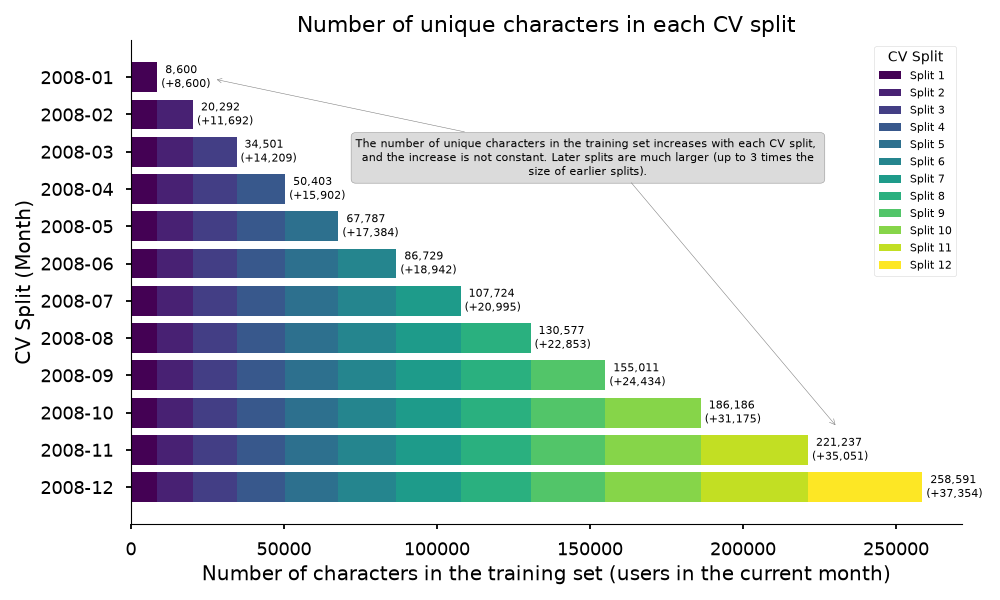
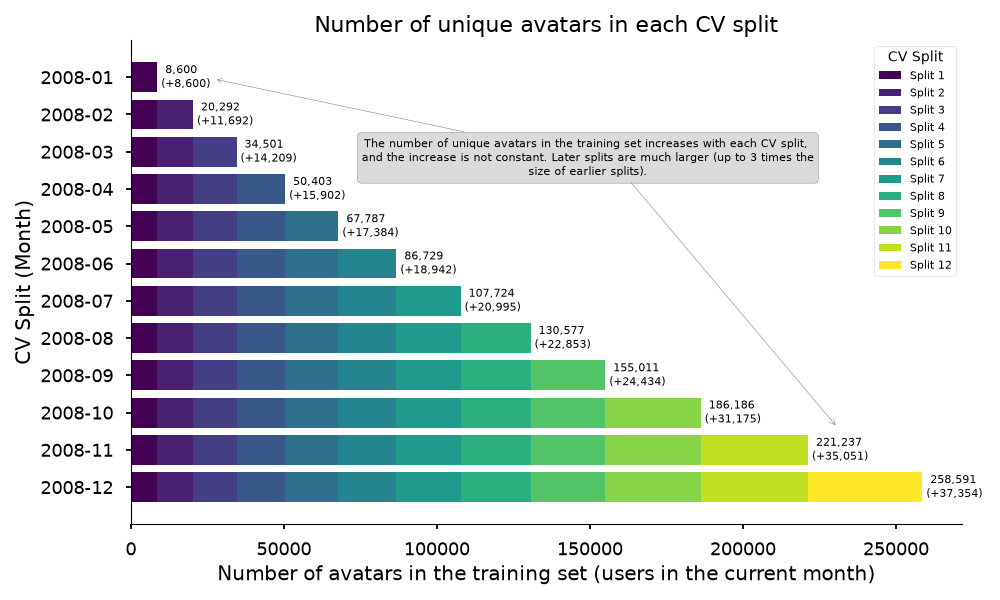
adding figure

Changed region(s): [[0.186, 0.93, 0.899, 0.99], [0.341, 0.21, 0.837, 0.3], [0.279, 0.03, 0.806, 0.06]]

diff --git a/plotting/plot_user_months.py b/plotting/plot_user_months.py
@@ -28,7 +28,7 @@ lefts = [0] + df_grouped["cumsum"].to_list()#[:-1]  # left offset for each month
 n = len(months)
 
 split_labels = [f"Split {i+1}" for i in range(n)]
-cmap = plt.cm.viridis
+cmap = plt.cm.plasma
 colors = [cmap(j / max(n - 1, 1)) for j in range(n)]
 
 fig, ax = plt.subplots(figsize=(10, 6))
@@ -49,9 +49,9 @@ for i, total in enumerate(cumsums):
     ax.text(total, months[i], f"  {total:,}\n ({sign}{diff:,})", va="center", fontsize=8)
 
 ax.invert_yaxis()  # Split 1 at top for natural reading order
-ax.set_xlabel("Number of characters in the training set (users in the current month)")
+ax.set_xlabel("Number of avatars in the training set (users in the current month)")
 ax.set_ylabel("CV Split (Month)")
-ax.set_title("Number of unique characters in each CV split")
+ax.set_title("Number of unique avatars in each CV split")
 handles, labels = ax.get_legend_handles_labels()
 plt.legend(
     handles, labels,
@@ -60,7 +60,7 @@ plt.legend(
 )
 
 desc = """
-The number of unique characters in the training set increases with each CV split, 
+The number of unique avatars in the training set increases with each CV split, 
 and the increase is not constant. Later splits are much larger (up to 3 times the
 size of earlier splits).
 """
@@ -92,5 +92,5 @@ ax.annotate(
 plt.tight_layout()
 plt.show()
 # %%
-fig.savefig("user_months_plot.png")
+fig.savefig("../images/user_months_plot.png")
 # %%
